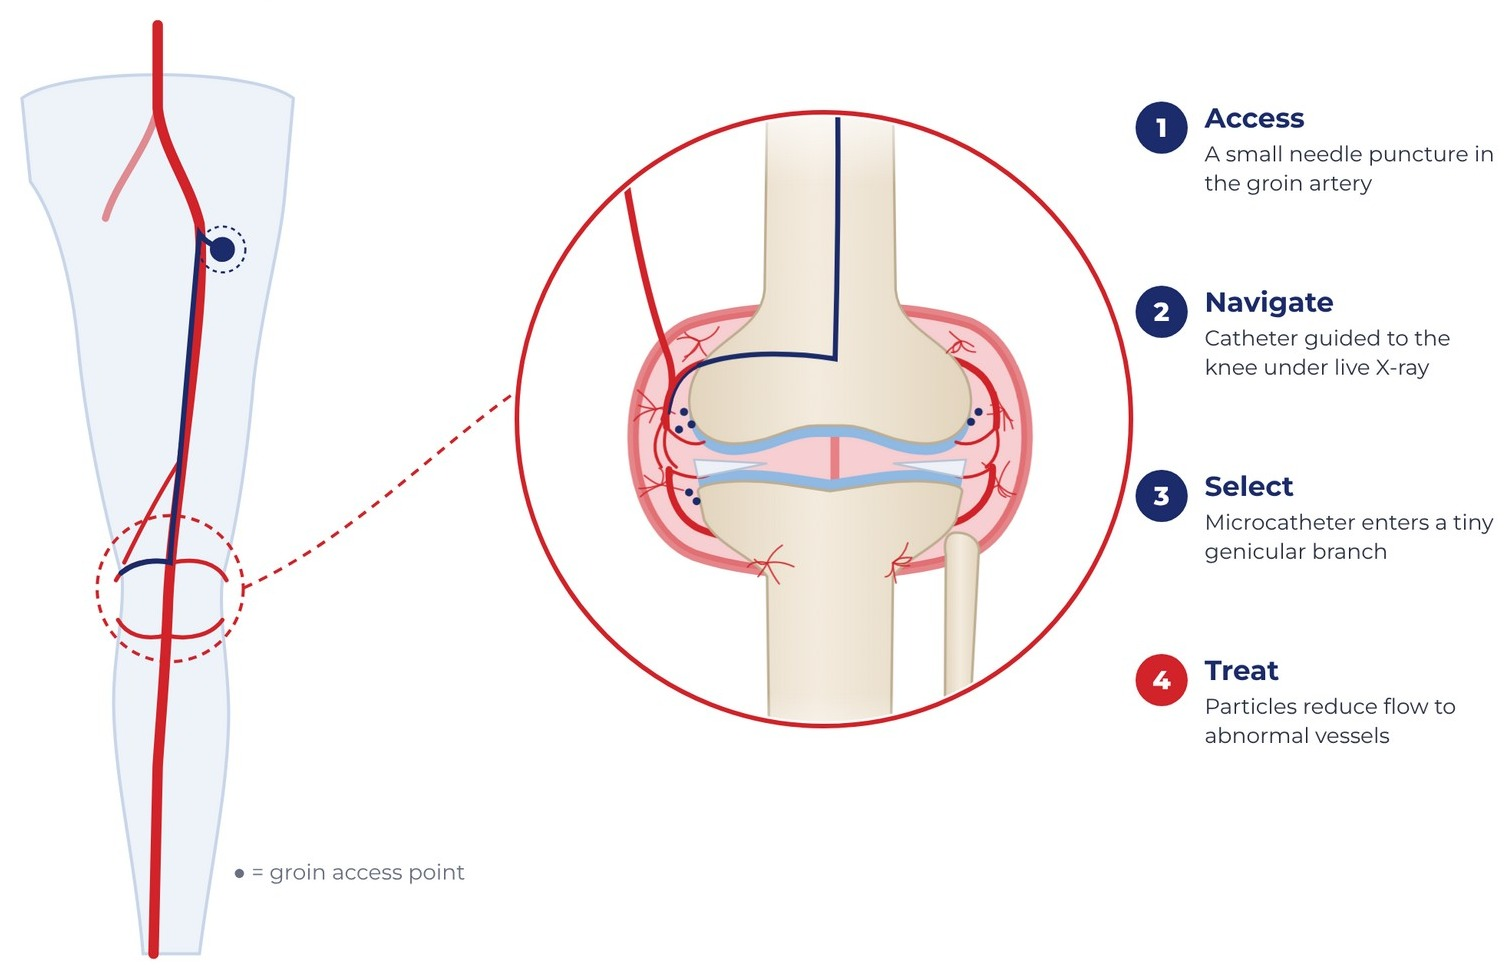
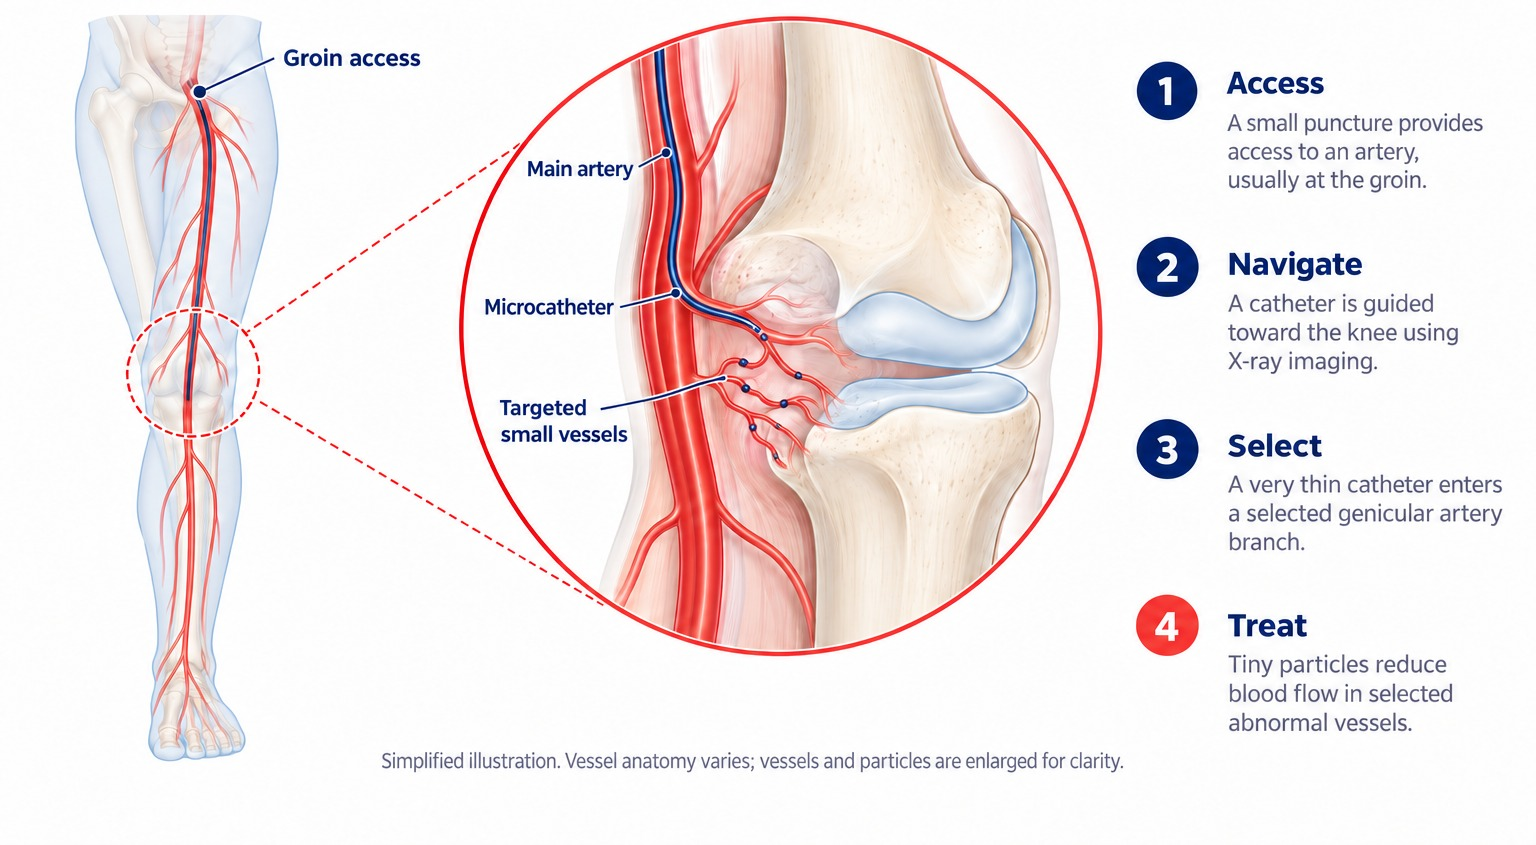
Flip J14a: new treating-from-inside-the-vessels illustration
Claude-Session: https://claude.ai/code/session_011FeJdRfmDCgTZcMtNMgwbg

diff --git a/js/templates.js b/js/templates.js
@@ -775,7 +775,7 @@ window.AJPVC_TEMPLATES = [
     "label": "J14a · Treating From Inside the Vessels (patient side)",
     "w": 1056,
     "h": 816,
-    "html": "<div style=\"width: 1056px; height: 816px; box-sizing: border-box; background: #FFFEFB; color: #1B2440; font-family: 'Public Sans', sans-serif; display: flex; flex-direction: column; padding: 34px 44px 26px; gap: 20px\">\n<div style=\"display: flex; justify-content: space-between; align-items: flex-end; gap: 24px; border-bottom: 5px solid #C8231E; padding-bottom: 14px\">\n<div style=\"display: flex; flex-direction: column; gap: 4px\"><p style=\"margin: 0; font-family: 'Montserrat', sans-serif; font-weight: 700; font-size: 15px; letter-spacing: 3px; text-transform: uppercase; color: #C8231E\">Joint pain</p>\n<h1 style=\"margin: 0; font-family: 'Montserrat', sans-serif; font-weight: 800; font-size: 44px; line-height: 1.05; color: #16306E\">Treating From Inside the Vessels</h1></div>\n<div style=\"display: flex; align-items: center; gap: 14px\"><img src=\"assets/logo-hvlc.png\" alt=\"Heart Vascular &amp; Leg Center logo\" style=\"height: 34px; width: 78px; object-fit: contain; object-position: left center\"><span style=\"width: 1px; height: 27px; background: #E2DED4\"></span><img src=\"assets/logo-long-nodivision.png\" alt=\"Advanced Joint Pain &amp; Vascular Center logo\" style=\"height: 34px; width: 129px; object-fit: contain; object-position: left center\"></div></div>\n<main style=\"flex: 1; min-height: 0; display: flex; flex-direction: column; gap: 16px\"><div style=\"flex: 1; min-height: 0; display: flex; flex-direction: column; gap: 10px\"><div style=\"flex: 1; min-height: 0; min-width: 0; background: #FFFFFF; border-radius: 18px; overflow: hidden; display: flex\"><img src=\"assets/book-gae_inside.jpg\" alt=\"Leg diagram showing a catheter entering at the groin and traveling down the artery to the knee, a close-up of small vessels around the knee joint, and four numbered steps: access, navigate, select, treat.\" style=\"width: 100%; height: 100%; object-fit: contain; object-position: 50% 50%; display: block\"></div></div><div style=\"display: flex; gap: 24px\"><div style=\"flex: 1; min-width: 0; display: flex; gap: 12px; align-items: flex-start; border-top: 4px solid #C8231E; padding-top: 12px\"><p style=\"margin: 0; font-size: 22px; line-height: 1.32; color: #1B2440\">A small needle puncture, usually in the groin artery.</p></div><div style=\"flex: 1; min-width: 0; display: flex; gap: 12px; align-items: flex-start; border-top: 4px solid #C8231E; padding-top: 12px\"><p style=\"margin: 0; font-size: 22px; line-height: 1.32; color: #1B2440\">A thin tube is guided to the knee using live X-ray.</p></div><div style=\"flex: 1; min-width: 0; display: flex; gap: 12px; align-items: flex-start; border-top: 4px solid #C8231E; padding-top: 12px\"><p style=\"margin: 0; font-size: 22px; line-height: 1.32; color: #1B2440\">Tiny particles reduce flow to abnormal knee vessels.</p></div></div></main></div>"
+    "html": "<div style=\"width: 1056px; height: 816px; box-sizing: border-box; background: #FFFEFB; color: #1B2440; font-family: 'Public Sans', sans-serif; display: flex; flex-direction: column; padding: 34px 44px 26px; gap: 20px\">\n<div style=\"display: flex; justify-content: space-between; align-items: flex-end; gap: 24px; border-bottom: 5px solid #C8231E; padding-bottom: 14px\">\n<div style=\"display: flex; flex-direction: column; gap: 4px\"><p style=\"margin: 0; font-family: 'Montserrat', sans-serif; font-weight: 700; font-size: 15px; letter-spacing: 3px; text-transform: uppercase; color: #C8231E\">Joint pain</p>\n<h1 style=\"margin: 0; font-family: 'Montserrat', sans-serif; font-weight: 800; font-size: 44px; line-height: 1.05; color: #16306E\">Treating From Inside the Vessels</h1></div>\n<div style=\"display: flex; align-items: center; gap: 14px\"><img src=\"assets/logo-hvlc.png\" alt=\"Heart Vascular &amp; Leg Center logo\" style=\"height: 34px; width: 78px; object-fit: contain; object-position: left center\"><span style=\"width: 1px; height: 27px; background: #E2DED4\"></span><img src=\"assets/logo-long-nodivision.png\" alt=\"Advanced Joint Pain &amp; Vascular Center logo\" style=\"height: 34px; width: 129px; object-fit: contain; object-position: left center\"></div></div>\n<main style=\"flex: 1; min-height: 0; display: flex; flex-direction: column; gap: 16px\"><div style=\"flex: 1; min-height: 0; display: flex; flex-direction: column; gap: 10px\"><div style=\"flex: 1; min-height: 0; min-width: 0; background: #FFFFFF; border-radius: 18px; overflow: hidden; display: flex\"><img src=\"assets/book-gae_inside.jpg\" alt=\"GAE step by step: a catheter enters an artery at the groin, is guided to the knee under X-ray, a microcatheter selects a small genicular branch, and tiny particles reduce flow in abnormal vessels\" style=\"width: 100%; height: 100%; object-fit: contain; object-position: 50% 50%; display: block\"></div></div><div style=\"display: flex; gap: 24px\"><div style=\"flex: 1; min-width: 0; display: flex; gap: 12px; align-items: flex-start; border-top: 4px solid #C8231E; padding-top: 12px\"><p style=\"margin: 0; font-size: 22px; line-height: 1.32; color: #1B2440\">A small needle puncture, usually in the groin artery.</p></div><div style=\"flex: 1; min-width: 0; display: flex; gap: 12px; align-items: flex-start; border-top: 4px solid #C8231E; padding-top: 12px\"><p style=\"margin: 0; font-size: 22px; line-height: 1.32; color: #1B2440\">A thin tube is guided to the knee using live X-ray.</p></div><div style=\"flex: 1; min-width: 0; display: flex; gap: 12px; align-items: flex-start; border-top: 4px solid #C8231E; padding-top: 12px\"><p style=\"margin: 0; font-size: 22px; line-height: 1.32; color: #1B2440\">Tiny particles reduce flow to abnormal knee vessels.</p></div></div></main></div>"
    },
    {
     "label": "J14b · Treating From Inside the Vessels (provider side)",

diff --git a/source/FlipJ14GaeInside.dc.html b/source/FlipJ14GaeInside.dc.html
@@ -18,7 +18,7 @@ body{margin:0}
 <div style="display: flex; flex-direction: column; gap: 4px"><p style="margin: 0; font-family: 'Montserrat', sans-serif; font-weight: 700; font-size: 15px; letter-spacing: 3px; text-transform: uppercase; color: #C8231E">Joint pain</p>
 <h1 style="margin: 0; font-family: 'Montserrat', sans-serif; font-weight: 800; font-size: 44px; line-height: 1.05; color: #16306E">Treating From Inside the Vessels</h1></div>
 <div style="display: flex; align-items: center; gap: 14px"><img src="/_blob/1e4ce51a5c3cb793b6317890e43e495e" alt="Heart Vascular &amp; Leg Center logo" style="height: 34px; width: 78px; object-fit: contain; object-position: left center"><span style="width: 1px; height: 27px; background: #E2DED4"></span><img src="/_blob/48c0202744b17fe1f033a36586de7a92" alt="Advanced Joint Pain &amp; Vascular Center logo" style="height: 34px; width: 129px; object-fit: contain; object-position: left center"></div></div>
-<main style="flex: 1; min-height: 0; display: flex; flex-direction: column; gap: 16px"><div style="flex: 1; min-height: 0; display: flex; flex-direction: column; gap: 10px"><div style="flex: 1; min-height: 0; min-width: 0; background: #FFFFFF; border-radius: 18px; overflow: hidden; display: flex"><img src="/_blob/3dff40ffd414feecb68395541686996b" alt="Leg diagram showing a catheter entering at the groin and traveling down the artery to the knee, a close-up of small vessels around the knee joint, and four numbered steps: access, navigate, select, treat." style="width: 100%; height: 100%; object-fit: contain; object-position: 50% 50%; display: block"></div></div><div style="display: flex; gap: 24px"><div style="flex: 1; min-width: 0; display: flex; gap: 12px; align-items: flex-start; border-top: 4px solid #C8231E; padding-top: 12px"><p style="margin: 0; font-size: 22px; line-height: 1.32; color: #1B2440">A small needle puncture, usually in the groin artery.</p></div><div style="flex: 1; min-width: 0; display: flex; gap: 12px; align-items: flex-start; border-top: 4px solid #C8231E; padding-top: 12px"><p style="margin: 0; font-size: 22px; line-height: 1.32; color: #1B2440">A thin tube is guided to the knee using live X-ray.</p></div><div style="flex: 1; min-width: 0; display: flex; gap: 12px; align-items: flex-start; border-top: 4px solid #C8231E; padding-top: 12px"><p style="margin: 0; font-size: 22px; line-height: 1.32; color: #1B2440">Tiny particles reduce flow to abnormal knee vessels.</p></div></div></main></div>
+<main style="flex: 1; min-height: 0; display: flex; flex-direction: column; gap: 16px"><div style="flex: 1; min-height: 0; display: flex; flex-direction: column; gap: 10px"><div style="flex: 1; min-height: 0; min-width: 0; background: #FFFFFF; border-radius: 18px; overflow: hidden; display: flex"><img src="/_blob/4f6de6ea595b0350a952668977e89804" alt="GAE step by step: a catheter enters an artery at the groin, is guided to the knee under X-ray, a microcatheter selects a small genicular branch, and tiny particles reduce flow in abnormal vessels" style="width: 100%; height: 100%; object-fit: contain; object-position: 50% 50%; display: block"></div></div><div style="display: flex; gap: 24px"><div style="flex: 1; min-width: 0; display: flex; gap: 12px; align-items: flex-start; border-top: 4px solid #C8231E; padding-top: 12px"><p style="margin: 0; font-size: 22px; line-height: 1.32; color: #1B2440">A small needle puncture, usually in the groin artery.</p></div><div style="flex: 1; min-width: 0; display: flex; gap: 12px; align-items: flex-start; border-top: 4px solid #C8231E; padding-top: 12px"><p style="margin: 0; font-size: 22px; line-height: 1.32; color: #1B2440">A thin tube is guided to the knee using live X-ray.</p></div><div style="flex: 1; min-width: 0; display: flex; gap: 12px; align-items: flex-start; border-top: 4px solid #C8231E; padding-top: 12px"><p style="margin: 0; font-size: 22px; line-height: 1.32; color: #1B2440">Tiny particles reduce flow to abnormal knee vessels.</p></div></div></main></div>
 </x-dc>
 <script type="text/x-dc" data-dc-script data-props='{"$preview":{"width":1056,"height":816}}'>
 class Component extends DCLogic {
